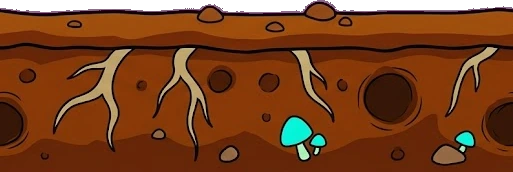
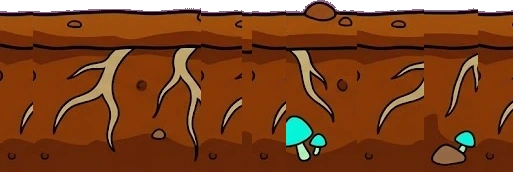
Fade the layers the doorway does not cover, and clear two false obstacles
THE DEEP->LAB SEAM WAS VISIBLE IN THE LAYERS NOTHING WAS HIDING. Every slot cut
at the boundary, which is right for the middle distance and the floor -- a
cross-fade there is a double exposure, and the gateway sprite stands on the
join. It is wrong for the haze and the ceiling: the ant empire's gate is a root
mound tall enough to cover the whole column, but the lab's door is WIDE AND
LOW, so above it the hanging pipes and the far haze ended at a hard vertical
line with a different world on each side. That is the "background not synced
with the last map". `far` and `hang` now dissolve across a screen's width of
travel; they are low-contrast atmosphere, where a dissolve reads as distance
rather than as a ghost.

And the lab door had its own visible edge. It was generated as a door SET INTO
A WALL, so it carries a rectangle of packed earth whose left and right borders
are two hard lines sliding over a scene that does not match them -- scaling it
past the screen hid that at the crossing but not on the approach.
tools/feather_gateways.py ramps the alpha over the outer 16% of each side, so
the earth dissolves into whatever is behind it. The ant gate is not in the list:
it has an organic silhouette and no rectangle, and feathering would eat its
roots.

REMOVED THE HAY BALES from the farm background and the ANT HOLES from the earth
bank -- both read as gameplay when they are scenery, and the bores sit at
running height where they look like something to enter or crash into.
[…]

diff --git a/index.html b/index.html
@@ -6257,6 +6257,27 @@ function drawBgLayers(keys){
 
     const A = slotFor(z.a, key), B = slotFor(z.b, key);
     if((same || seam > VW + 2) || A === B){ drawLayerSlot(A, key, 1); continue; }
+
+    /* CUT WHAT THE DOORWAY COVERS; FADE WHAT IT DOES NOT.
+       Every slot used to cut at the seam, and that is right for the two the
+       player is looking at -- the middle distance and the floor -- because a
+       cross-fade there is a double exposure and the gateway sprite is standing
+       on the join anyway.
+       It is wrong for the haze and the ceiling. The ant empire's gate is a
+       root mound tall enough to hide the whole column, so nobody saw it. The
+       lab's door is WIDE AND LOW: above it the hanging pipes and the far haze
+       ended at a hard vertical line with a different world on each side, which
+       is the "not synced with the last map" -- one seam, visible only in the
+       layers nothing was covering.
+       So `far` and `hang` dissolve across a screen's width of travel instead.
+       They are low-contrast atmosphere; a dissolve there reads as distance,
+       where the same dissolve in the mid reads as a ghost. */
+    if(key === 'far' || key === 'hang'){
+      const u = clamp(1 - seam/VW, 0, 1);         // 0 approaching, 1 once past
+      drawLayerSlot(A, key, 1 - u);
+      drawLayerSlot(B, key, u);
+      continue;
+    }
     /* EVERY slot uses the spatial seam, including the distance.
        This was built as a cross-fade for far and mid first, on the reasoning
        that distance changes by haze and the seam is only about a second of

diff --git a/tools/strip_layer_bits.py b/tools/strip_layer_bits.py
@@ -1,0 +1,134 @@
+# -*- coding: utf-8 -*-
+"""Take unwanted things out of a parallax layer, by SPLICING not painting.
+
+    python tools/strip_layer_bits.py            # report what it found
+    python tools/strip_layer_bits.py --write
+
+Two removals, both asked for and both for the same reason -- a background is
+allowed to be interesting and is not allowed to look like gameplay:
+
+  bales      the hay stacks along the farm fence (art/bg/near.webp)
+  antholes   the round tunnel mouths in the earth bank (art/ant/near.webp),
+             which sit at running height and read as something you can enter
+             or crash into
+
+NOTHING IS PAINTED OUT AND NOTHING IS BLURRED. Both layers are long strips of
+repeating material, so a column band containing the unwanted thing is replaced
+with a column band from somewhere else in the SAME strip that does not. Every
+pixel afterwards is a pixel the artist drew, at its own scale, with its own
+grain -- which is the difference between removing something and smudging it.
+It is the same trick tools/thin_bales.py uses to space the bales out, turned up
+to take them away entirely.
+
+The strip has to keep looping, so the replacement is taken from the middle and
+the two ends are never used as a source."""
+import os
+import sys
+
+import numpy as np
+from PIL import Image
+
+sys.path.insert(0, os.path.dirname(os.path.abspath(__file__)))
+from imglib import label                                     # noqa: E402
+
+ROOT = os.path.dirname(os.path.dirname(os.path.abspath(__file__)))
+
+JOBS = {
+    'bales':    os.path.join(ROOT, 'art', 'bg', 'near.webp'),
+    'antholes': os.path.join(ROOT, 'art', 'ant', 'near.webp'),
+}
+PAD = 6            # widen each find, so an edge never survives the splice
+
+
+def runs(flags, gap=2):
+    xs = np.nonzero(flags)[0]
+    if not len(xs):
+        return []
+    out, s, p = [], xs[0], xs[0]
+    for x in xs[1:]:
+        if x - p > gap:
+            out.append((int(s), int(p) + 1)); s = x
+        p = x
+    out.append((int(s), int(p) + 1))
+    return out
+
+
+def find(kind, a):
+    """-> a boolean per column: does this column contain the thing?"""
+    f = a.astype(int)
+    r, g, b, al = f[..., 0], f[..., 1], f[..., 2], f[..., 3]
+    h = a.shape[0]
+    if kind == 'bales':
+        # straw: bright, warm, and much yellower than it is blue
+        m = (al > 60) & (r > 185) & (g > 145) & (g < 232) & (b < 160) & ((r - b) > 70)
+        # ignore the thin scatter -- flowers and rail highlights are the same colour
+        return m.sum(0) > h*0.06
+    # ant holes
+    # A threshold on darkness alone matched 114% of the width: every ink
+    # outline in the bank is dark, and there are outlines everywhere. A hole is
+    # not "dark", it is a dark BLOB -- so find connected dark regions and keep
+    # the ones big enough and round enough to be a bore. That is the same
+    # lesson the truck's wheels taught: label the shapes, do not threshold the
+    # pixels.
+    dark = (al > 60) & (r < 104) & (g < 80) & (b < 70)
+    lab, n = label(dark)
+    keep = np.zeros(a.shape[1], bool)
+    for i in range(1, n + 1):
+        m = lab == i
+        px = int(m.sum())
+        if px < 260:
+            continue
+        ys, xs = np.nonzero(m)
+        bw, bh = xs.max() - xs.min() + 1, ys.max() - ys.min() + 1
+        if bw < 14 or bh < 14:
+            continue
+        if bw > a.shape[1]*0.35 or bh > h*0.85:      # a long outline, not a hole
+            continue
+        if px < bw*bh*0.30:                          # too sparse to be a bore
+            continue
+        keep[xs.min():xs.max() + 1] = True
+    return keep
+
+
+def main():
+    write = '--write' in sys.argv
+    for kind, path in JOBS.items():
+        if not os.path.exists(path):
+            print('  %-9s missing: %s' % (kind, path)); continue
+        im = Image.open(path).convert('RGBA')
+        a = np.array(im)
+        w = a.shape[1]
+        cols = find(kind, a)
+        bands = [(max(0, s - PAD), min(w, e + PAD)) for s, e in runs(cols)]
+        clean = np.ones(w, bool)
+        for s, e in bands:
+            clean[s:e] = False
+        total = sum(e - s for s, e in bands)
+        print('  %-9s %4dpx wide, %d band(s) to remove covering %d px (%.0f%%)'
+              % (kind, w, len(bands), total, 100.0*total/w))
+        if not bands:
+            continue
+        # the widest clean stretch, kept away from the looping edges
+        inner = clean.copy()
+        inner[:int(w*0.06)] = False
+        inner[int(w*0.94):] = False
+        src = max(runs(inner), key=lambda p: p[1] - p[0], default=None)
+        if not src or src[1] - src[0] < 24:
+            print('             no clean stretch big enough to splice from -- skipped')
+            continue
+        print('             splicing from clean columns %d..%d' % src)
+        if not write:
+            continue
+        out = a.copy()
+        sw = src[1] - src[0]
+        for s, e in bands:
+            for i, x in enumerate(range(s, e)):
+                out[:, x] = a[:, src[0] + (i % sw)]
+        Image.fromarray(out, 'RGBA').save(path, 'WEBP', quality=92, method=6, exact=True)
+        print('             written  %d KB' % (os.path.getsize(path)//1024))
+    if not write:
+        print('  dry run: pass --write')
+
+
+if __name__ == '__main__':
+    main()

diff --git a/tools/feather_gateways.py b/tools/feather_gateways.py
@@ -1,0 +1,67 @@
+# -*- coding: utf-8 -*-
+"""Soften the vertical edges of the gateway sprites.
+
+    python tools/feather_gateways.py            # report
+    python tools/feather_gateways.py --write
+
+A gateway stands on a zone boundary so the layer seam cuts behind something
+solid. That works only while the sprite itself has no visible edge -- and the
+lab door does: it was generated as a door SET INTO A WALL, so it comes with its
+own rectangle of packed earth, and that rectangle's left and right borders are
+two hard vertical lines sliding across a scene that does not match them.
+
+Scaling it past the screen width hid the edges at the moment of crossing and
+not on the approach, which is where the "background is not synced" came from.
+
+So the sides are feathered: an alpha ramp over the outer `FEATHER` of the
+width, leaving the middle untouched. The earth then dissolves into whatever
+layer is behind it instead of ending. The TOP is left alone -- it is already
+sky-side and reads as the top of a wall -- and so is the bottom, which sits
+under the road.
+
+The ant empire's gate is a root mound with an organic silhouette and no such
+rectangle, so it is not in the list; feathering it would only eat its roots."""
+import os
+import sys
+
+from PIL import Image
+
+ROOT = os.path.dirname(os.path.dirname(os.path.abspath(__file__)))
+ART = os.path.join(ROOT, 'art', 'ant')
+TARGETS = ['lab_door']
+FEATHER = 0.16          # of the width, each side
+
+
+def main():
+    write = '--write' in sys.argv
+    for name in TARGETS:
+        p = os.path.join(ART, name + '.webp')
+        if not os.path.exists(p):
+            print('  %-10s missing' % name)
+            continue
+        im = Image.open(p).convert('RGBA')
+        w, h = im.size
+        a = im.split()[3]
+        px = a.load()
+        n = max(1, int(w*FEATHER))
+        # how opaque the edges are now -- if they are already soft, say so
+        edge = sum(px[0, y] for y in range(0, h, 7)) / max(1, len(range(0, h, 7)))
+        print('  %-10s %dx%d  left-edge alpha %.0f -> feathering %d px each side'
+              % (name, w, h, edge, n))
+        if not write:
+            continue
+        for x in range(n):
+            k = x/float(n)
+            k = k*k*(3-2*k)                      # smoothstep, so the ramp has no corner
+            for y in range(h):
+                px[x, y] = int(px[x, y]*k)
+                px[w-1-x, y] = int(px[w-1-x, y]*k)
+        im.putalpha(a)
+        im.save(p, 'WEBP', quality=92, method=6, exact=True)
+        print('             written  %d KB' % (os.path.getsize(p)//1024))
+    if not write:
+        print('  dry run: pass --write')
+
+
+if __name__ == '__main__':
+    main()
